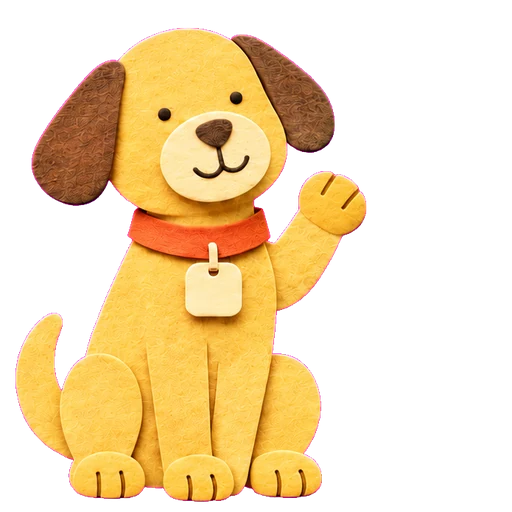
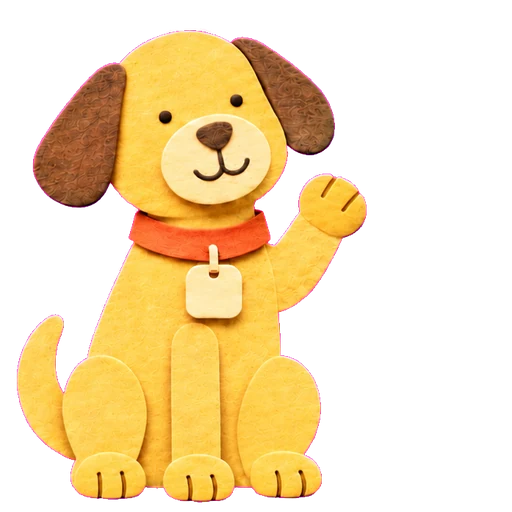
0.77.3: the guide stays inside the miniature, and its sitting legs
When the entrance is so low that the guide would go out under the
picture (the whole centre with where to park), it goes up and aside,
away from where the way goes. And the sitting gestures of the art
director once more: one front leg down, the two hind ones at the sides
and the one raised.

diff --git a/classes/local/guide.php b/classes/local/guide.php
@@ -29,6 +29,9 @@ class guide {
     /** @var string[] The guides there are. */
     const KINDS = ['perro'];
 
+    /** @var float How wide the guide stands on a miniature, as a part of its width (.guia-mapa in pub/eguahe.css). */
+    const WIDE = 0.14;
+
     /**
      * The guide of a centre, or '' without one.
      *
@@ -57,8 +60,8 @@ class guide {
      * its path of class «ruta» (the recipe of the miniatures keeps it, and it always ends at the door of the place).
      *
      * @param string $svg
-     * @return array x, y, endx, endy, up (whether its first stretch goes up) and marks (the labels and the pin, which
-     *     the bubble never covers: x, y, w, h); empty when the picture has no way.
+     * @return array x, y, endx, endy, up (whether its first stretch goes up), ratio (width over height) and marks (the
+     *     labels and the pin, which the bubble never covers: x, y, w, h); empty when the picture has no way.
      */
     public static function read_way(string $svg): array {
         if (!preg_match('/viewBox="\s*[-\d.]+[\s,]+[-\d.]+[\s,]+([\d.]+)[\s,]+([\d.]+)/', $svg, $box)) {
@@ -75,7 +78,8 @@ class guide {
         }
         $part = fn($v, $of) => round(min(1, max(0, (float) $v / $of)), 4);
         return ['x' => $part($n[0], $w), 'y' => $part($n[1], $h), 'endx' => $part($n[count($n) - 2], $w),
-            'endy' => $part($n[count($n) - 1], $h), 'up' => (float) $n[3] < (float) $n[1], 'marks' => self::marks($svg, $w, $h)];
+            'endy' => $part($n[count($n) - 1], $h), 'up' => (float) $n[3] < (float) $n[1], 'ratio' => round($w / $h, 4),
+            'marks' => self::marks($svg, $w, $h)];
     }
 
     /**
@@ -170,9 +174,20 @@ class guide {
     protected static function spot(array $way, string $suffix): string {
         // It walks to the right; when the way goes to the left, it turns round.
         $flip = $way['endx'] < $way['x'] ? -1 : 1;
-        $rise = !empty($way['up']) ? '-4%' : '-100%';
-        return '--x' . $suffix . ':' . round($way['x'] * 100, 2) . '%;--y' . $suffix . ':' . round($way['y'] * 100, 2) .
-            '%;--giro' . $suffix . ':' . $flip . ';--alto' . $suffix . ':' . $rise . ';';
+        // Its height as a part of the picture: it is square and 14 % as wide as the picture (.guia-mapa).
+        $tall = self::WIDE * (float) ($way['ratio'] ?? 1.6);
+        $top = !empty($way['up']) ? $way['y'] - 0.04 * $tall : $way['y'] - $tall;
+        $x = $way['x'];
+        if ($top + $tall > 0.98) {
+            // Below the entrance it would go out of the picture: it goes up, aside from where the way goes.
+            $top = 0.98 - $tall;
+            $x -= $flip * self::WIDE * 0.75;
+        }
+        $top = max(0, $top);
+        $x = min(1 - self::WIDE / 2, max(self::WIDE / 2, $x));
+        $rise = round(($top - $way['y']) / $tall * 100, 1);
+        return '--x' . $suffix . ':' . round($x * 100, 2) . '%;--y' . $suffix . ':' . round($way['y'] * 100, 2) .
+            '%;--giro' . $suffix . ':' . $flip . ';--alto' . $suffix . ':' . $rise . '%;';
     }
 
     /**

diff --git a/tests/guide_test.php b/tests/guide_test.php
@@ -89,4 +89,23 @@ final class guide_test extends \advanced_testcase {
         centres::update($id, (object) ['guide' => 'no']);
         $this->assertSame('', guide::of(centres::get($id)));
     }
+
+    /**
+     * An entrance at the very bottom of the picture: the guide does not go out of it, it goes up and aside.
+     */
+    public function test_stays_inside(): void {
+        $this->resetAfterTest();
+        $id = centres::create((object) ['name' => 'Colegio de ejemplo', 'lang' => 'es', 'country' => 'ES', 'guide' => 'perro']);
+        get_file_storage()->create_file_from_string(['contextid' => \context_system::instance()->id,
+            'component' => 'local_oksigeniaeguahe', 'filearea' => 'miniature', 'itemid' => $id, 'filepath' => '/',
+            'filename' => 'abajo.svg'], '<svg viewBox="0 0 1600 1000"><path class="ruta" d="M800 900 820 800 600 500"/></svg>');
+        centres::update($id, (object) ['guide' => 'perro']);
+        $style = guide::on_map(centres::get($id), 'miniature', false, 'es')['style'];
+        preg_match('/--x:([\d.]+)%;--y:([\d.]+)%;--giro:(-?1);--alto:(-?[\d.]+)%/', $style, $m);
+        [$x, $y, $giro, $rise] = [(float) $m[1], (float) $m[2], (int) $m[3], (float) $m[4]];
+        $tall = 22.4;
+        $this->assertSame(-1, $giro);
+        $this->assertLessThanOrEqual(98.01, $y + $rise / 100 * $tall + $tall, 'Its feet stay inside the picture.');
+        $this->assertGreaterThan(50, $x, 'Aside, away from where the way goes.');
+    }
 }

diff --git a/version.php b/version.php
@@ -25,8 +25,8 @@
 defined('MOODLE_INTERNAL') || die();
 
 $plugin->component = 'local_oksigeniaeguahe';
-$plugin->version   = 2026117004;
-$plugin->release   = '0.77.2';
+$plugin->version   = 2026117005;
+$plugin->release   = '0.77.3';
 $plugin->maturity  = MATURITY_ALPHA;
 $plugin->requires  = 2024100700; // Moodle 4.5, the oldest branch that still gets security fixes.
 $plugin->supported = [405, 503];
